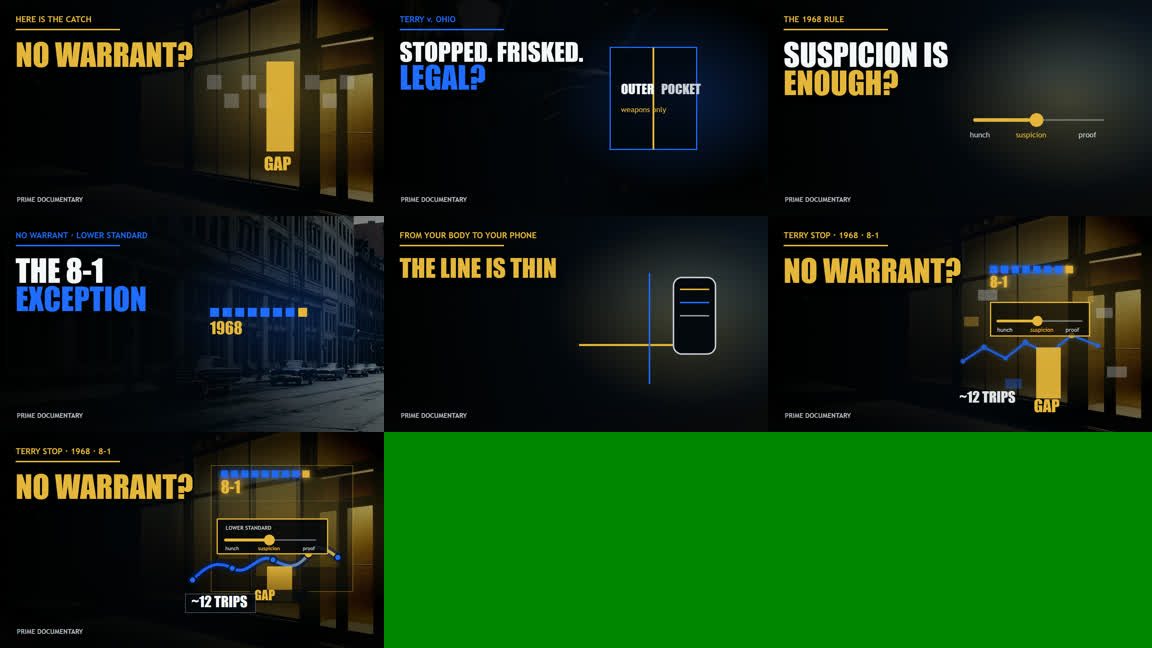
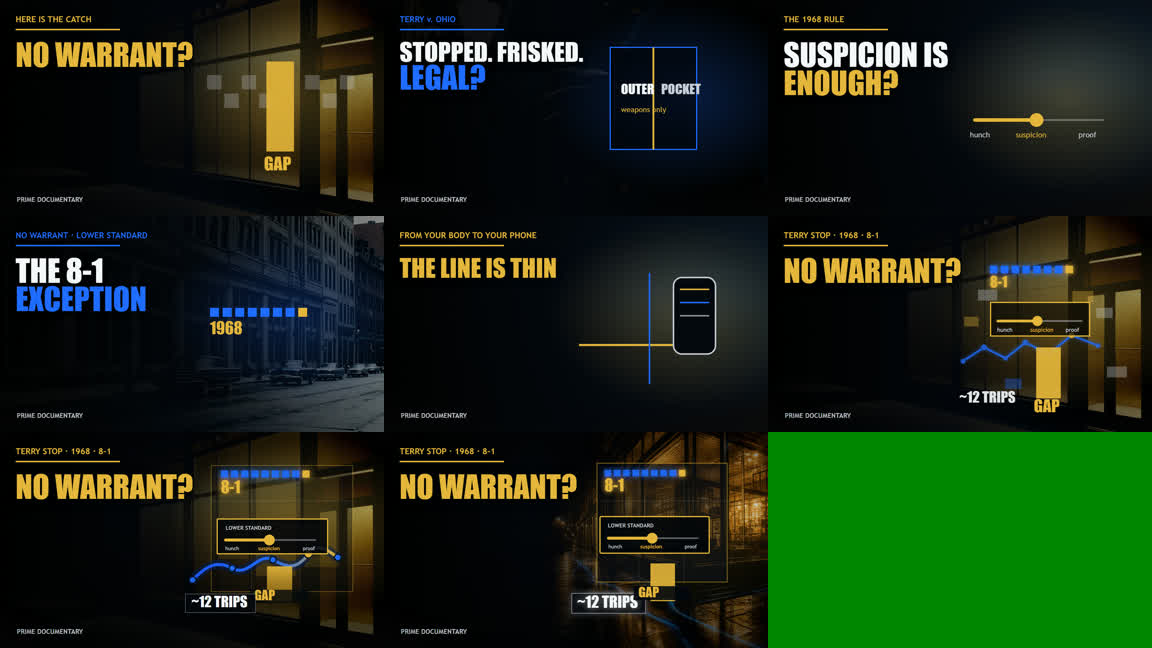
Use Codex keyart for Terry thumbnail

Changed region(s): [[0.3125, 0.6481, 0.6875, 1.0]]

diff --git a/remotion/src/compositions/TerryThumbnails.tsx b/remotion/src/compositions/TerryThumbnails.tsx
@@ -16,7 +16,7 @@ type ThumbVariant = {
   headline: string;
   kicker: string;
   image?: string;
-  motif: 'gap' | 'frisk' | 'scale' | 'street' | 'phone' | 'dense' | 'cinematic';
+  motif: 'gap' | 'frisk' | 'scale' | 'street' | 'phone' | 'dense' | 'cinematic' | 'codexKeyart';
   accent: 'blue' | 'gold';
 };
 
@@ -75,6 +75,14 @@ export const terryThumbnailVariants: ThumbVariant[] = [
     motif: 'cinematic',
     accent: 'gold',
   },
+  {
+    id: 'thumb08',
+    headline: 'NO WARRANT?',
+    kicker: 'TERRY STOP · 1968 · 8-1',
+    image: 'terry/codex_keyart_background.v008.png',
+    motif: 'codexKeyart',
+    accent: 'gold',
+  },
 ];
 
 const splitHeadline = (headline: string): string[] => {
@@ -85,6 +93,60 @@ const splitHeadline = (headline: string): string[] => {
 };
 
 const Motif: React.FC<{variant: ThumbVariant; accent: string}> = ({variant, accent}) => {
+  if (variant.motif === 'codexKeyart') {
+    return (
+      <svg width="1280" height="720" style={{position: 'absolute', inset: 0}}>
+        <defs>
+          <filter id="keyartGlow" x="-70%" y="-70%" width="240%" height="240%">
+            <feGaussianBlur stdDeviation="10" result="blur" />
+            <feMerge>
+              <feMergeNode in="blur" />
+              <feMergeNode in="SourceGraphic" />
+            </feMerge>
+          </filter>
+          <linearGradient id="keyartPanel" x1="0" x2="1" y1="0" y2="1">
+            <stop offset="0%" stopColor="#02050d" stopOpacity="0.94" />
+            <stop offset="100%" stopColor="#091322" stopOpacity="0.68" />
+          </linearGradient>
+        </defs>
+        <g opacity="0.92">
+          <rect x="710" y="104" width="434" height="396" fill="url(#keyartPanel)" stroke={GOLD} strokeWidth="2.5" opacity="0.66" />
+          <line x1="710" x2="1144" y1="230" y2="230" stroke={SILVER} strokeWidth="1.5" opacity="0.22" />
+          <line x1="850" x2="850" y1="104" y2="500" stroke={SILVER} strokeWidth="1.5" opacity="0.18" />
+          <line x1="1000" x2="1000" y1="104" y2="500" stroke={SILVER} strokeWidth="1.5" opacity="0.18" />
+        </g>
+
+        <g transform="translate(735 126)" filter="url(#keyartGlow)">
+          {Array.from({length: 9}, (_, i) => (
+            <rect key={i} x={i * 31} y="0" width="22" height="22" fill={i === 8 ? GOLD : BLUE} opacity={i === 8 ? 0.98 : 0.86} />
+          ))}
+          <text x="0" y="72" fill={GOLD} fontFamily={BRAND.font.display} fontSize="54">8-1</text>
+        </g>
+
+        <g transform="translate(720 282)">
+          <rect x="0" y="0" width="364" height="122" rx="4" fill="#010409e8" stroke={GOLD} strokeWidth="4" />
+          <text x="26" y="36" fill={SILVER} fontFamily={BRAND.font.body} fontSize="18" fontWeight="900">LOWER STANDARD</text>
+          <line x1="28" x2="328" y1="72" y2="72" stroke={SILVER} strokeWidth="5" opacity="0.48" />
+          <line x1="28" x2="174" y1="72" y2="72" stroke={GOLD} strokeWidth="10" strokeLinecap="round" />
+          <circle cx="174" cy="72" r="18" fill={GOLD} />
+          <text x="28" y="106" fill={SILVER} fontFamily={BRAND.font.body} fontSize="17">hunch</text>
+          <text x="134" y="106" fill={GOLD} fontFamily={BRAND.font.body} fontSize="17" fontWeight="900">suspicion</text>
+          <text x="282" y="106" fill={SILVER} fontFamily={BRAND.font.body} fontSize="17">proof</text>
+        </g>
+
+        <g transform="translate(626 538)" filter="url(#keyartGlow)">
+          <rect x="0" y="0" width="246" height="66" fill="#02050df2" stroke={SILVER} strokeWidth="1.5" opacity="0.95" />
+          <text x="18" y="48" fill={WHITE} fontFamily={BRAND.font.display} fontSize="52">~12 TRIPS</text>
+        </g>
+
+        <g transform="translate(888 438)">
+          <rect x="0" y="0" width="82" height="126" fill={GOLD} opacity="0.9" />
+          <rect x="-56" y="76" width="188" height="46" fill="#02050de8" />
+          <text x="-40" y="113" fill={GOLD} fontFamily={BRAND.font.display} fontSize="44">GAP</text>
+        </g>
+      </svg>
+    );
+  }
   if (variant.motif === 'cinematic') {
     return (
       <svg width="1280" height="720" style={{position: 'absolute', inset: 0}}>
@@ -262,7 +324,8 @@ export const TerryThumbnail: React.FC<{variantIndex?: number}> = ({variantIndex 
   const variant = terryThumbnailVariants[variantIndex] ?? terryThumbnailVariants[0];
   const accent = variant.accent === 'gold' ? GOLD : BLUE;
   const lines = splitHeadline(variant.headline);
-  const isCinematic = variant.motif === 'cinematic';
+  const isCinematic = variant.motif === 'cinematic' || variant.motif === 'codexKeyart';
+  const isCodexKeyart = variant.motif === 'codexKeyart';
   return (
     <AbsoluteFill style={{backgroundColor: INK, overflow: 'hidden'}}>
       {variant.image ? (
@@ -274,15 +337,15 @@ export const TerryThumbnail: React.FC<{variantIndex?: number}> = ({variantIndex 
             width: '100%',
             height: '100%',
             objectFit: 'cover',
-            transform: 'scale(1.08)',
-            filter: isCinematic ? 'brightness(0.76) contrast(1.34) saturate(1.18)' : 'brightness(0.66) contrast(1.22) saturate(1.04)',
+            transform: isCodexKeyart ? 'scale(1.015)' : 'scale(1.08)',
+            filter: isCodexKeyart ? 'brightness(0.86) contrast(1.2) saturate(1.08)' : isCinematic ? 'brightness(0.76) contrast(1.34) saturate(1.18)' : 'brightness(0.66) contrast(1.22) saturate(1.04)',
           }}
         />
       ) : (
         <AbsoluteFill style={{background: `radial-gradient(90% 74% at 70% 36%, #173d6f 0%, ${NAVY} 34%, ${INK} 82%)`}} />
       )}
-      <AbsoluteFill style={{background: isCinematic ? 'linear-gradient(90deg, #000000f8 0%, #02050bec 45%, #00000036 100%)' : 'linear-gradient(90deg, #000000f4 0%, #02050be8 49%, #00000022 100%)'}} />
-      <AbsoluteFill style={{background: `radial-gradient(54% 68% at 78% 45%, ${accent}${isCinematic ? '55' : '3f'} 0%, #00000000 64%)`}} />
+      <AbsoluteFill style={{background: isCodexKeyart ? 'linear-gradient(90deg, #000000f8 0%, #02050bdc 39%, #00000016 74%, #00000030 100%)' : isCinematic ? 'linear-gradient(90deg, #000000f8 0%, #02050bec 45%, #00000036 100%)' : 'linear-gradient(90deg, #000000f4 0%, #02050be8 49%, #00000022 100%)'}} />
+      <AbsoluteFill style={{background: `radial-gradient(54% 68% at 78% 45%, ${accent}${isCodexKeyart ? '35' : isCinematic ? '55' : '3f'} 0%, #00000000 64%)`}} />
       {isCinematic ? <AbsoluteFill style={{background: 'linear-gradient(180deg, #00000070 0%, #00000000 35%, #00000088 100%)'}} /> : null}
       <Motif variant={variant} accent={accent} />
       <div style={{position: 'absolute', left: 52, top: 48, width: 720}}>

diff --git a/scripts/build_terry_thumbnails_v001.py b/scripts/build_terry_thumbnails_v001.py
@@ -73,6 +73,12 @@ VARIANTS = [
         "kicker": "TERRY STOP - 1968 - 8-1",
         "assessment": "Selected. Codex-polished cinematic variant: keeps the dense Terry-specific cues from option 06, but improves depth, lighting, hierarchy, and small-size readability.",
     },
+    {
+        "id": "thumb08",
+        "headline": "NO WARRANT?",
+        "kicker": "TERRY STOP - 1968 - 8-1",
+        "assessment": "Selected. Codex-generated detailed key-art background with richer storefront texture, wet-pavement reflections, blue path light, and cleaner documentary hierarchy.",
+    },
 ]
 
 
@@ -101,6 +107,9 @@ def prepare_public_images() -> None:
         if not dst.exists() or dst.stat().st_size != src.stat().st_size:
             shutil.copy2(src, dst)
         copied += 1
+    keyart = OUT_DIR / "codex_keyart_background.v008.png"
+    if keyart.exists():
+        shutil.copy2(keyart, PUBLIC_TERRY / keyart.name)
     if copied < 3:
         raise FileNotFoundError(f"Expected approved Terry images under {SELECTED}, found {copied}")
     print(f"copied_or_verified_images={copied} -> {PUBLIC_TERRY}")
@@ -169,14 +178,15 @@ def write_options(options: list[dict], contact_hash: str) -> None:
             "artifact://episodes/PD-2026-006-terry/05_visuals/selected/S003/PD-2026-006-terry-S003-IMG-001.v001.png",
             "artifact://episodes/PD-2026-006-terry/05_visuals/selected/S004/PD-2026-006-terry-S004-IMG-001.v001.png",
             "artifact://episodes/PD-2026-006-terry/05_visuals/selected/S018/PD-2026-006-terry-S018-IMG-001.v001.png",
+            "artifact://episodes/PD-2026-006-terry/10_thumbnail/codex_keyart_background.v008.png",
         ],
         "recommended_shortlist": [
+            "thumbnail_option_08.v001.png",
             "thumbnail_option_07.v001.png",
             "thumbnail_option_06.v001.png",
-            "thumbnail_option_01.v001.png",
         ],
-        "selected": "thumbnail_option_07.v001.png",
-        "selection_reason": "Owner asked to make the thumbnail image more beautiful with Codex. Option 07 keeps the denser Terry-specific information from option 06 while improving cinematic depth, lighting, hierarchy, and small-size readability.",
+        "selected": "thumbnail_option_08.v001.png",
+        "selection_reason": "Owner asked for a more beautiful and more detailed Codex-generated image. Option 08 uses a Codex-generated key-art background and keeps exact project-rendered text and legal motifs for reliability.",
         "options": options,
         "contact_sheet": {
             "file": f"episodes/{EP}/10_thumbnail/{CONTACT.name}",